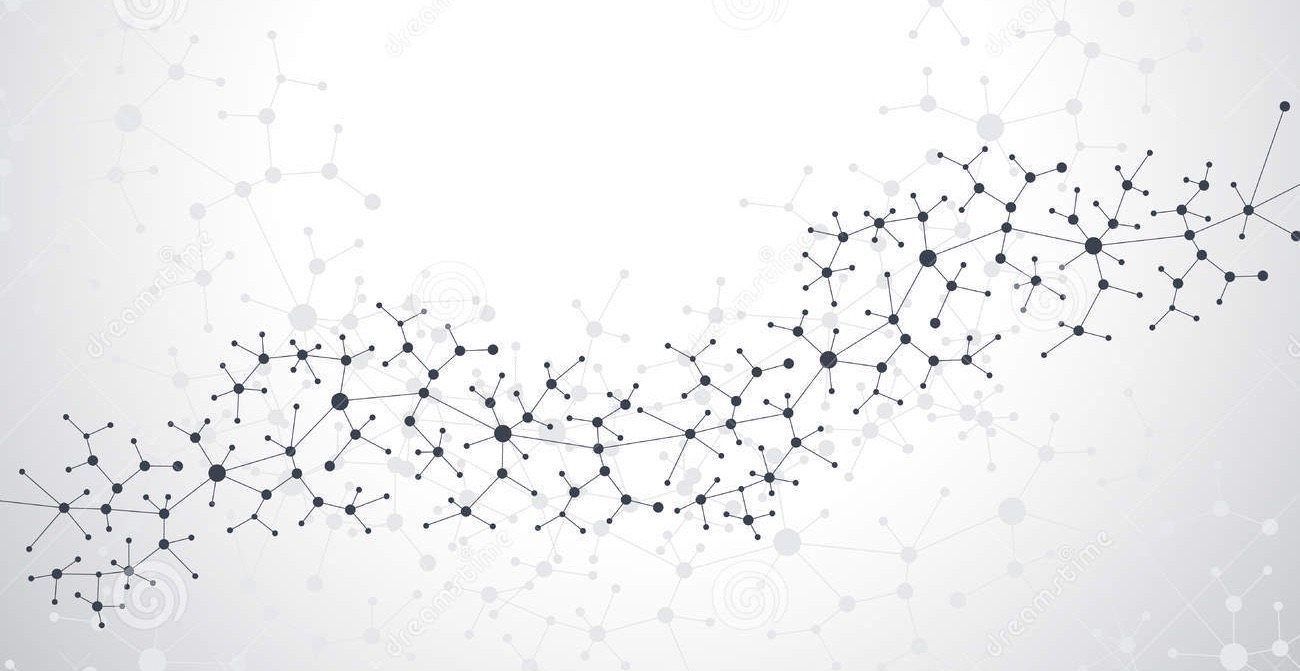
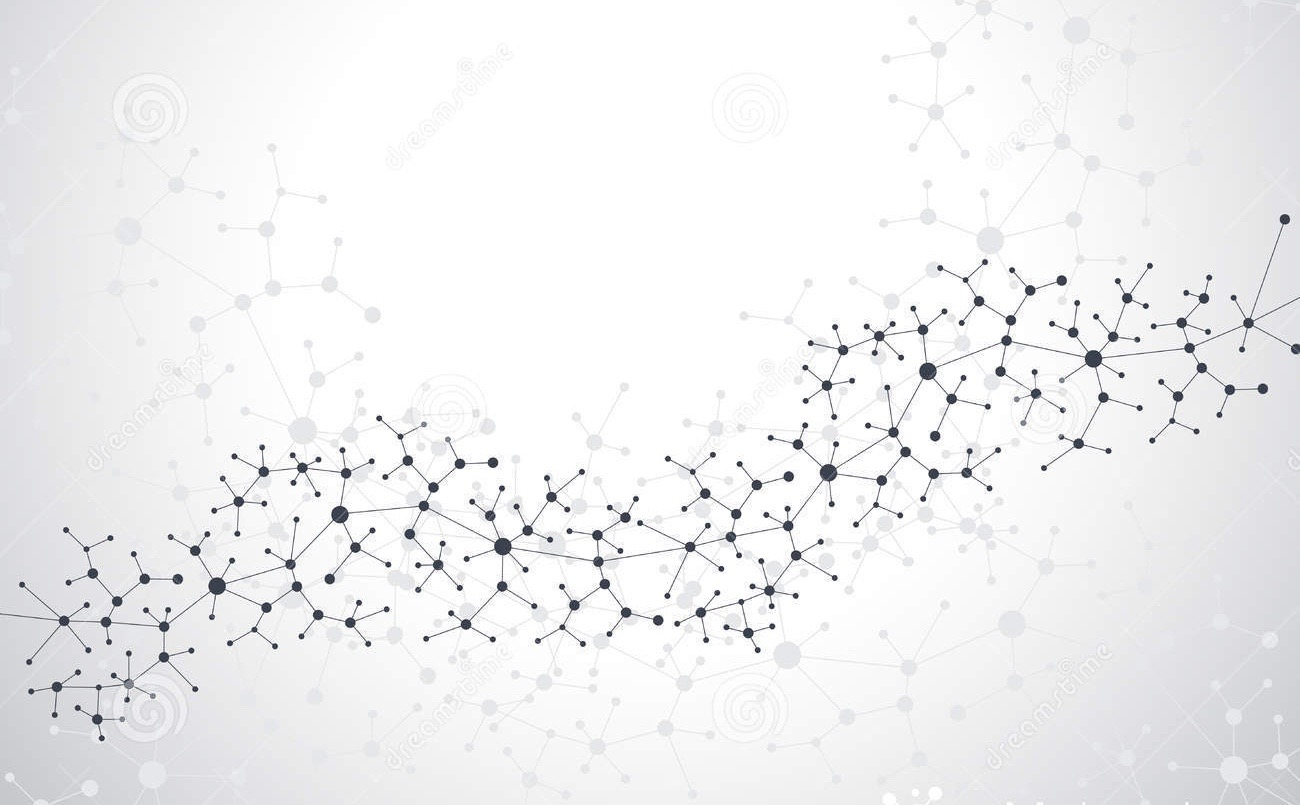
added section for header IMG

diff --git a/style.css b/style.css
@@ -536,9 +536,6 @@ img {
 
 /* ------------------------- Page: Social Media ------------------------------ */
 /* -------------------------------------- DESCRIPTION ----------------------------------- */
-#description {
-  background: url("bg-faq.jpg");
-}
 #description .container-elastic {
   overflow: hidden;
 }

diff --git a/sass/pages/_page-home.scss b/sass/pages/_page-home.scss
@@ -2,7 +2,6 @@
 
 /* -------------------------------------- DESCRIPTION ----------------------------------- */
 #description {
-  background: url('bg-faq.jpg');
 
   .container-elastic {
     overflow: hidden;

diff --git a/inc/customizer.php b/inc/customizer.php
@@ -101,7 +101,7 @@ function my_add_social_sites_customizer($wp_customize)
         'priority' => 1
     )));
 	
-	/*-----------------------------------  header IMG customizer ---------------------------------------------*/
+	/*-----------------------------------  background IMG customizer ---------------------------------------------*/
         $wp_customize->add_section('promolod_banner_img', array(
             'title' => __('BACKGROUND IMG', 'promolod'),
             'priority' => 120
@@ -111,11 +111,28 @@ function my_add_social_sites_customizer($wp_customize)
             'transport' => 'refresh'
         ));
         $wp_customize->add_control(new WP_Customize_Image_Control($wp_customize, 'promolod_banner_img_control', array(
-            'label' => __('IMG for header banner', 'promolod'),
+            'label' => __('IMG for background', 'promolod'),
             'section' => 'promolod_banner_img',
             'settings' => 'banner_image',
             'priority' => 1
         )));
+
+
+    /*-----------------------------------  header IMG customizer ---------------------------------------------*/
+    $wp_customize->add_section('promolod_banner_img_header', array(
+        'title' => __('HEADER IMG', 'promolod'),
+        'priority' => 120
+    ));
+    $wp_customize->add_setting('banner_image_header', array(
+        'default' => 'none',
+        'transport' => 'refresh'
+    ));
+    $wp_customize->add_control(new WP_Customize_Image_Control($wp_customize, 'promolod_header_img_control', array(
+        'label' => __('IMG for header banner', 'promolod'),
+        'section' => 'promolod_banner_img_header',
+        'settings' => 'banner_image_header',
+        'priority' => 1
+    )));
 }
 
 /* -------------------------------------------- Social icons function ---------------------- */

diff --git a/header.php b/header.php
@@ -20,11 +20,11 @@
         <section id="description">
             <div class="overlay">
                 <?php
-                $banner_image = get_theme_mod('banner_image', '');
+                $banner_image = get_theme_mod('banner_image_header', '');
                 if (!empty($banner_image)) : ?>
                     <style>
                         #description {
-/*                            background: url(*/<?php //echo $banner_image ?>/*);*/
+                            background: url(<?php echo $banner_image ?>);
                             background-size: cover;
                             background-attachment: fixed;
                         }
